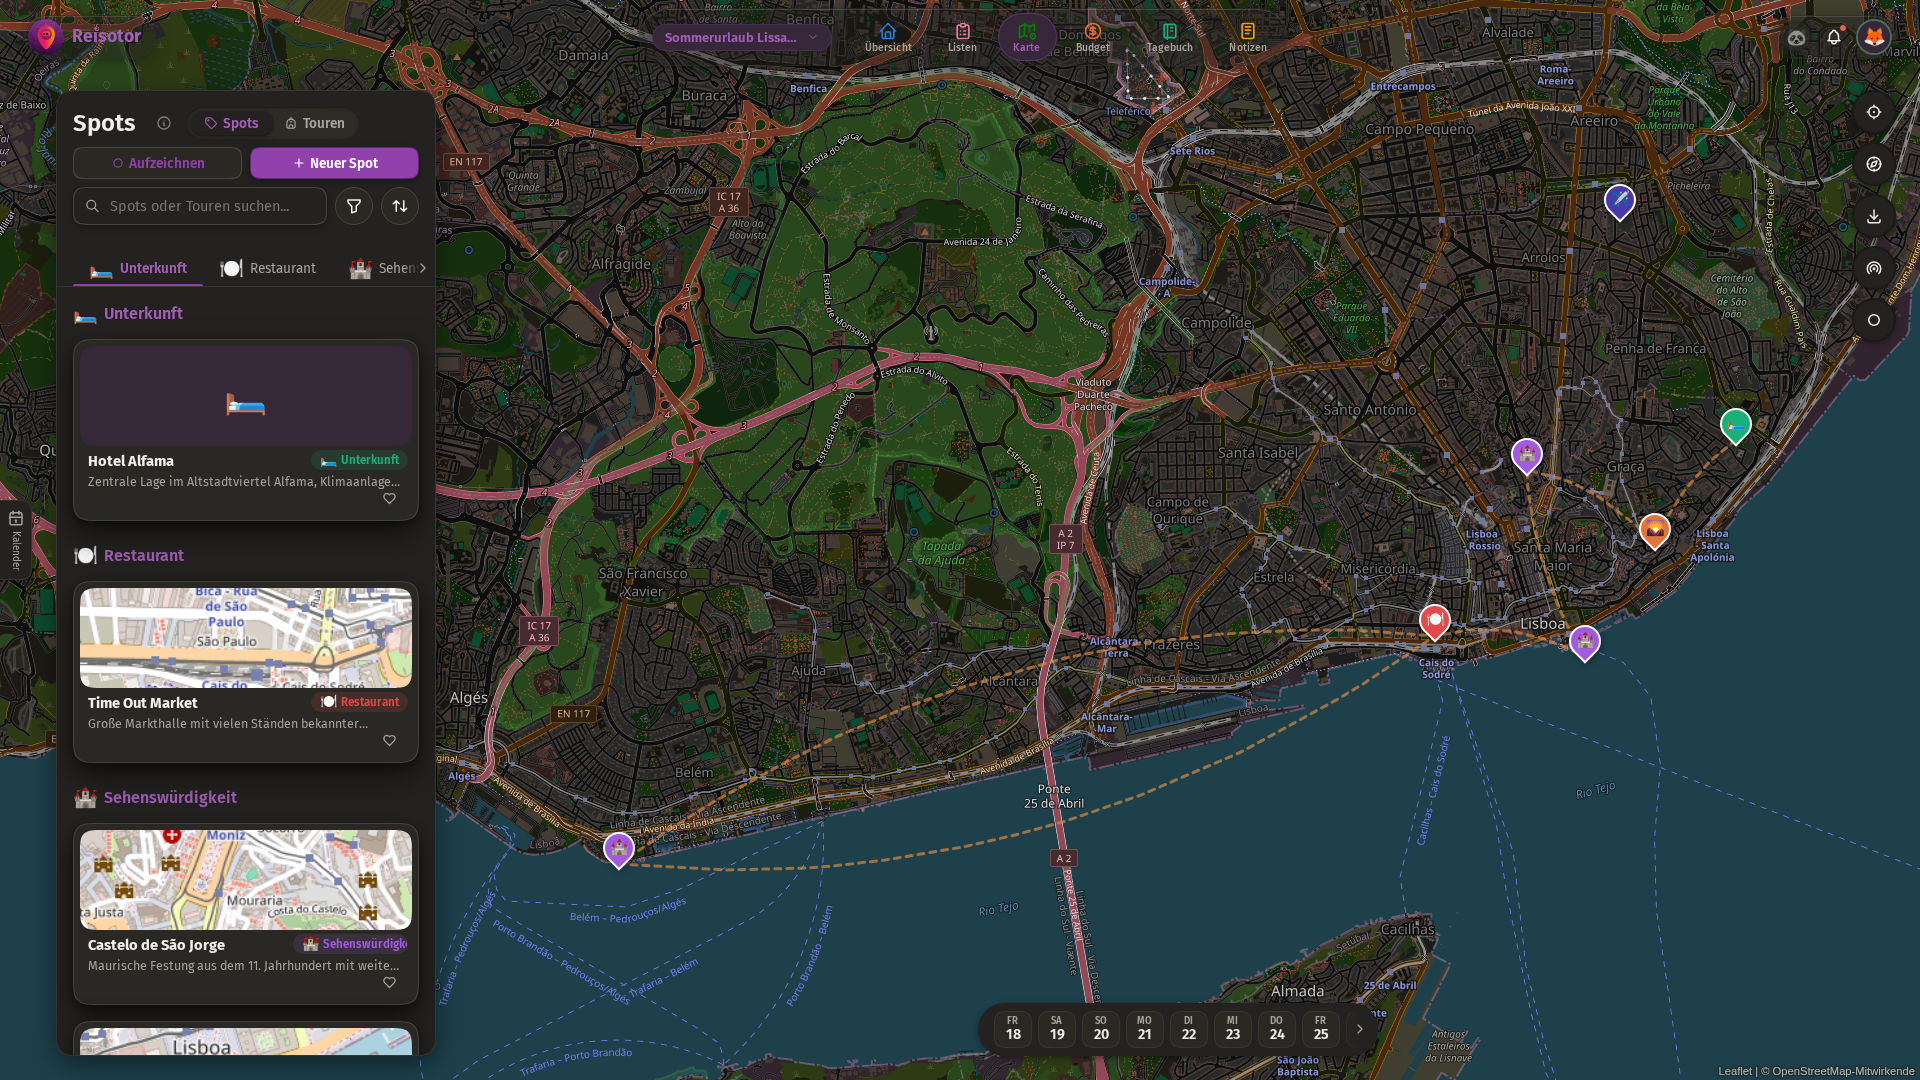
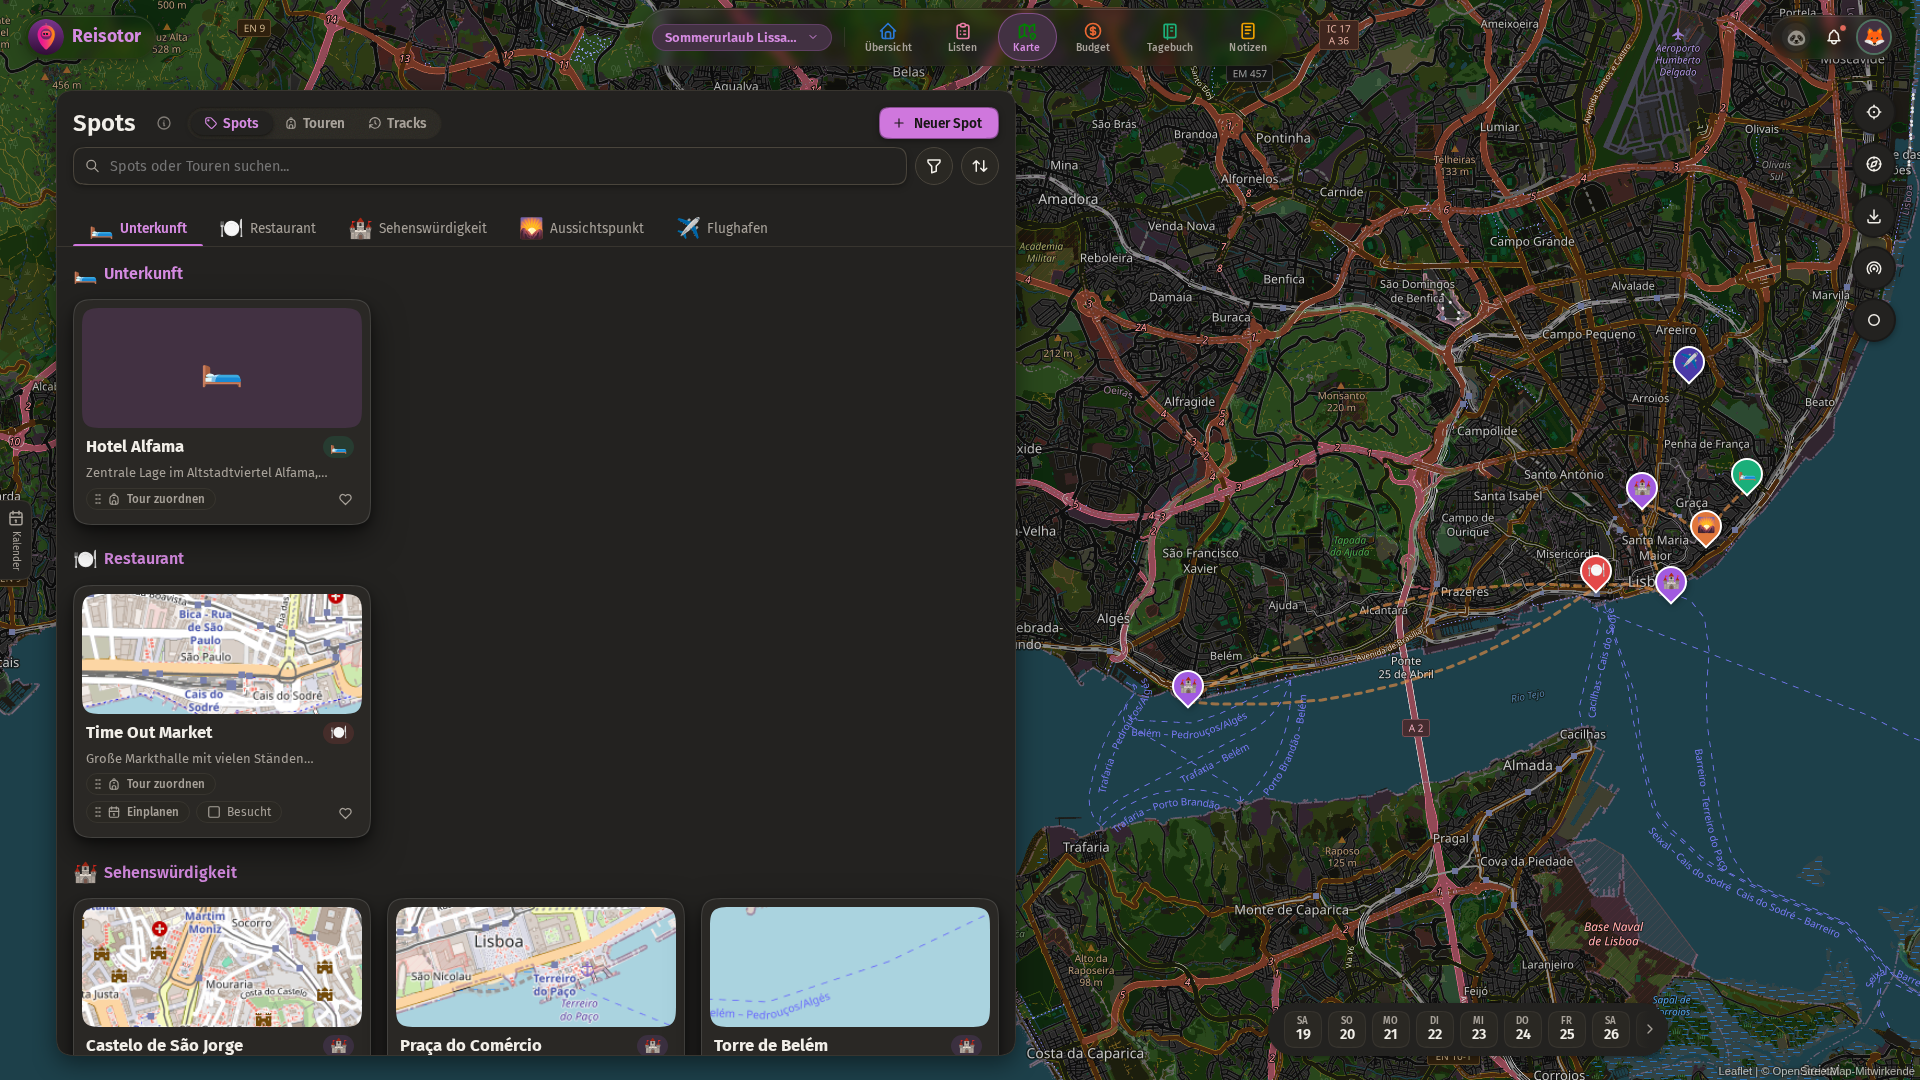
test(screenshots): set desktop spots drawer to half width in baseline screenshots

diff --git a/e2e/tests/tools/generate-baseline-screenshots.manual.spec.ts b/e2e/tests/tools/generate-baseline-screenshots.manual.spec.ts
@@ -222,19 +222,21 @@ test.describe('Generate Clean Production Baseline Screenshots (Full HD)', () => 
         // Pre-configure localStorage before navigation:
         // - Close calendar drawer on all non-dashboard desktop views to avoid visual redundancy (Requirement R2)
         // - Open calendar drawer on dashboard
-        // - Set spots column width to 560px for tour view to showcase the serpentine layout cleanly
+        // - Set spots drawer width to half of viewport on desktop (960px for 1920px Full HD) for all spots/tour views
         await page.addInitScript(
-          ({ slug }) => {
+          ({ slug, isDesktop }) => {
             if (slug !== 'dashboard') {
               localStorage.setItem('reisotor-drawer-calendar-open', 'false');
             } else {
               localStorage.setItem('reisotor-drawer-calendar-open', 'true');
             }
-            if (slug === 'tour') {
+            if (isDesktop && (slug === 'spots' || slug === 'tour')) {
               localStorage.setItem('reisotor-spots-col-width', '960');
+            } else if (!isDesktop) {
+              localStorage.setItem('reisotor-spots-col-width', '380');
             }
           },
-          { slug: view.slug }
+          { slug: view.slug, isDesktop: vp.name === 'desktop' }
         );
 
         await page.goto(view.path);
@@ -251,6 +253,13 @@ test.describe('Generate Clean Production Baseline Screenshots (Full HD)', () => 
             await calendarTab.click();
             await page.waitForTimeout(300);
           }
+        }
+
+        // Spots / Tour view specific preparation: wait for spots drawer & map container to be visible
+        if (view.slug === 'spots' || view.slug === 'tour') {
+          await page.locator('.spots-col').waitFor({ state: 'visible', timeout: 15_000 });
+          await page.locator('.leaflet-container').waitFor({ state: 'visible', timeout: 15_000 });
+          await waitForMapTiles(page);
         }
 
         // Tour view specific preparation: trigger map focus on tour & wait for serpentine path & Leaflet settle
